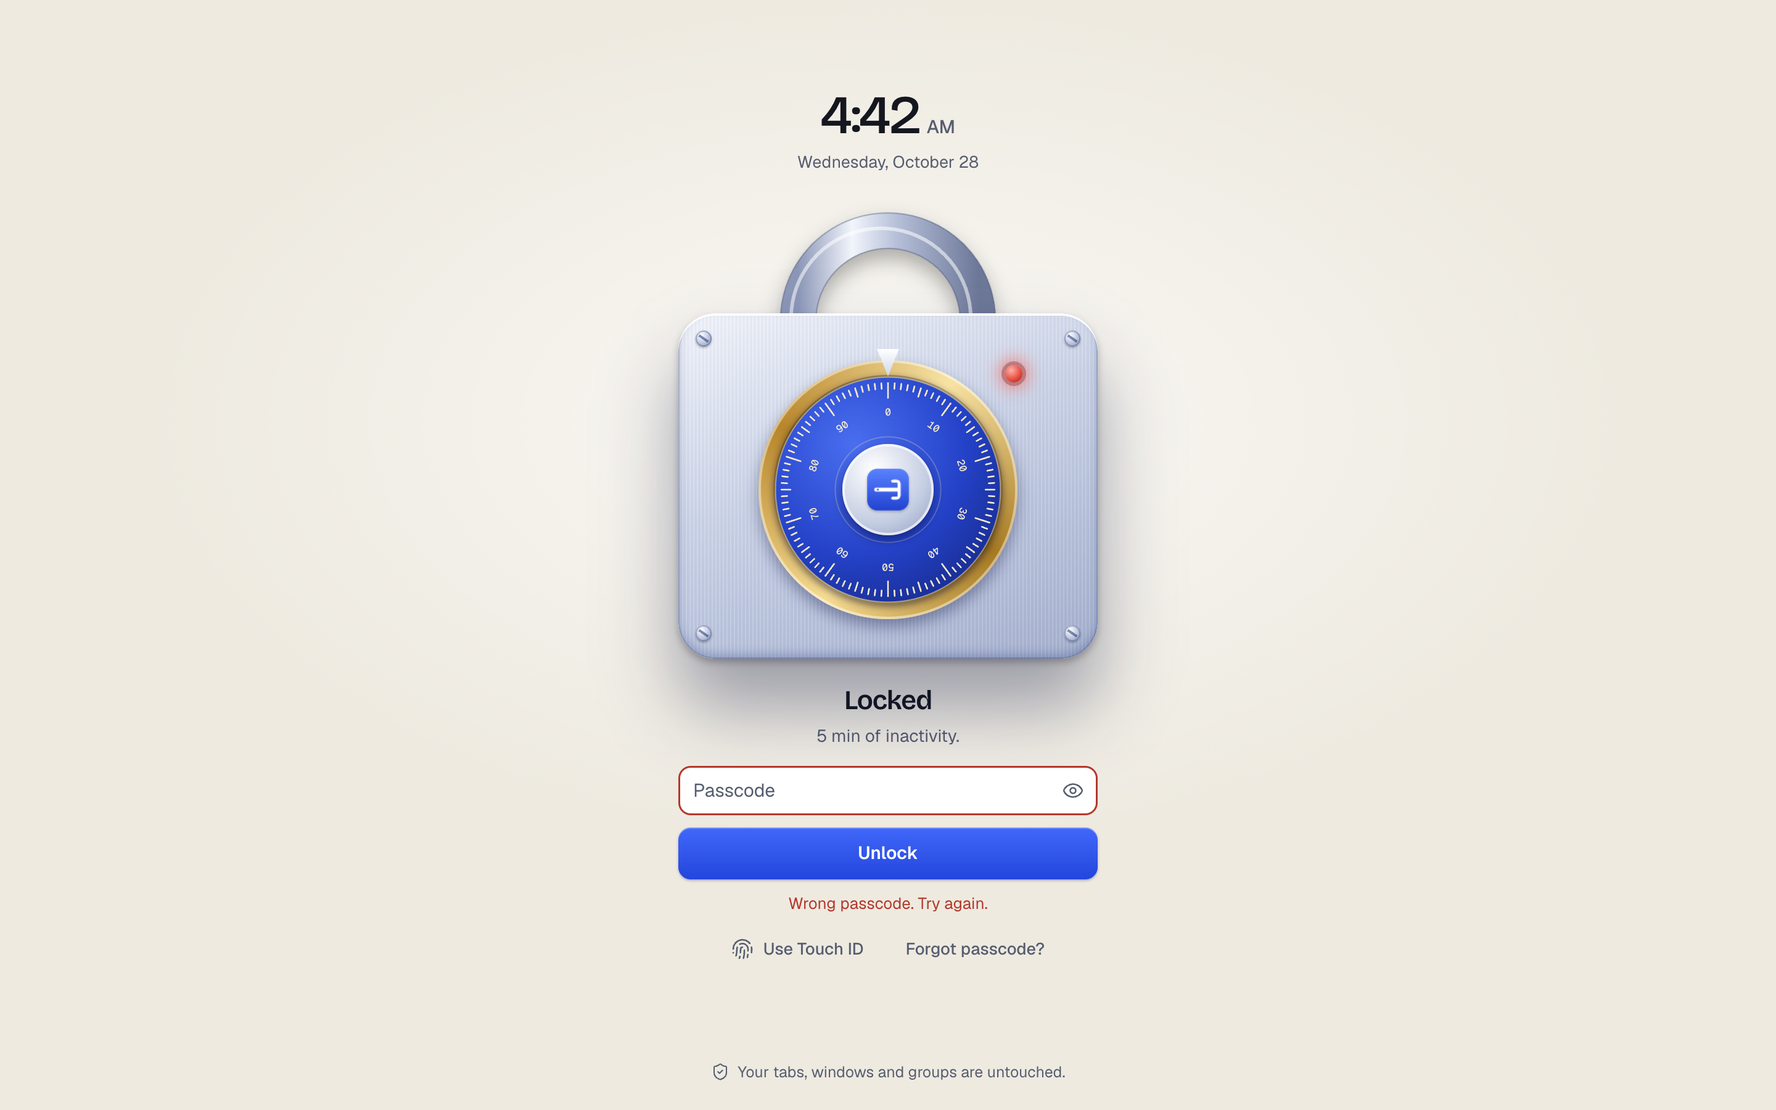
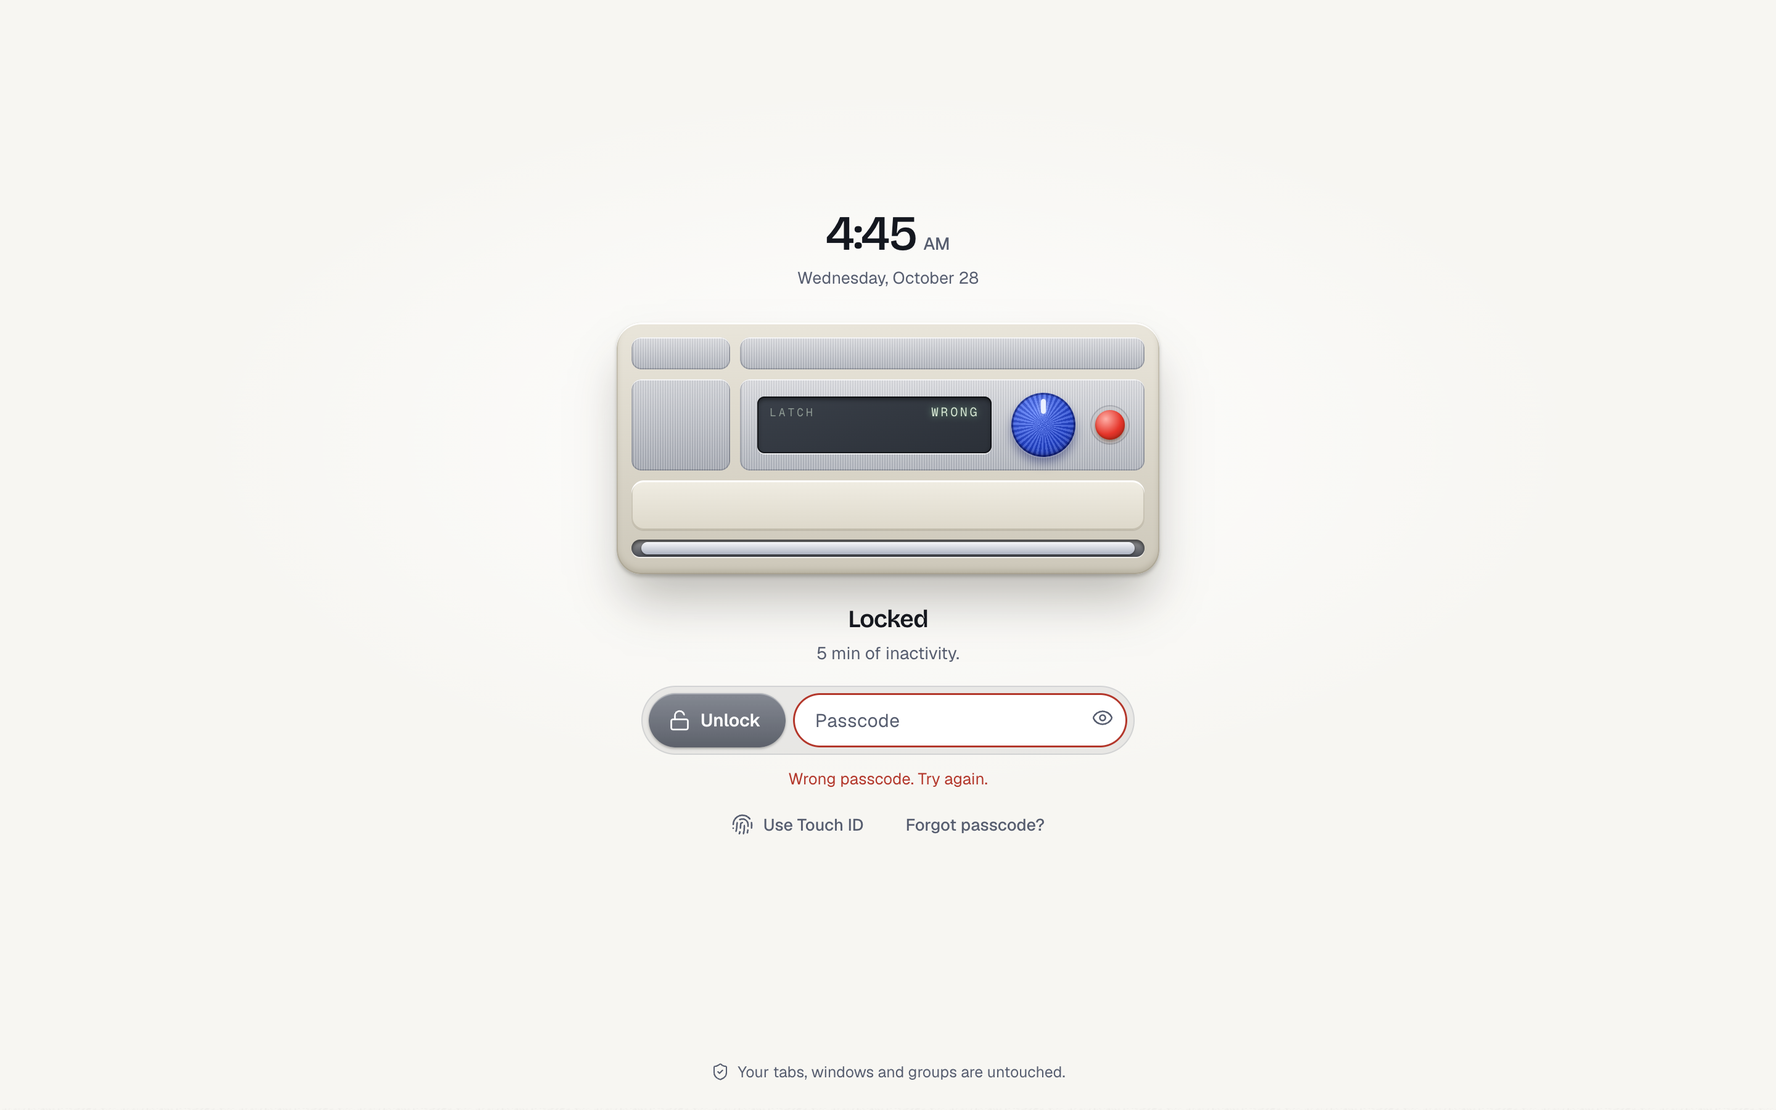
Lock screen as a putty-and-brushed-metal device with LCD, knurled knob, lamp, sliding bolt and a pill control

Changed region(s): [[0.3438, 0.1867, 0.6562, 0.8711], [0.4375, 0.0933, 0.5312, 0.1556]]

diff --git a/ui/lock.css b/ui/lock.css
@@ -1,61 +1,73 @@
-/* The lock screen: one solid, textured ground, one 3D lock in the middle, the passcode field right below it. */
-:root { --ground: #eeeae0; --ground-glow: rgba(255, 255, 255, .7); }
-@media (prefers-color-scheme: dark) { :root { --ground: #0e1436; --ground-glow: rgba(70, 100, 230, .22); } }
+/* The lock screen: a clean ground, one physical device in the middle, a pill control right below it. */
+:root { --ground: #f7f6f2; --putty-a: #e9e5da; --putty-b: #cdc8ba; --metal-a: #d9dade; --metal-b: #aeb2ba; --lcd: #2b3038; --lcd-ink: #d5e6d2; }
+@media (prefers-color-scheme: dark) { :root { --ground: #101319; } }
 html { background: var(--ground); }
-body::before { opacity: 0 !important; }                    /* no grid here: a quiet, solid ground */
-body { background: radial-gradient(60% 55% at 50% 38%, var(--ground-glow), transparent 70%), var(--ground); }
-body::after { opacity: .5; }                               /* the grain, from common.css */
+body::before { opacity: 0 !important; }
+body { background: radial-gradient(55% 45% at 50% 40%, rgba(255, 255, 255, .85), transparent 72%), var(--ground); }
+@media (prefers-color-scheme: dark) { body { background: radial-gradient(55% 45% at 50% 40%, rgba(120, 140, 200, .14), transparent 72%), var(--ground); } }
+body::after { opacity: .42; }
 
-.stage { min-height: 100vh; display: grid; justify-items: center; align-content: center; gap: 22px; padding: 28px 20px 70px; text-align: center; }
-.clock time { display: block; font: 500 44px/1 var(--display); letter-spacing: -.04em; font-variant-numeric: tabular-nums; }
-.clock .ampm { font: 500 15px/1.3 var(--font); letter-spacing: 0; margin-left: 6px; color: var(--text-2); }
+.stage { min-height: 100vh; display: grid; justify-items: center; align-content: center; gap: 26px; padding: 28px 20px 70px; text-align: center; }
+.clock time { display: block; font: 500 40px/1 var(--display); letter-spacing: -.04em; font-variant-numeric: tabular-nums; }
+.clock .ampm { font: 500 14px/1.3 var(--font); letter-spacing: 0; margin-left: 6px; color: var(--text-2); }
 .clock p { margin-top: 6px; font-size: 13.5px; color: var(--text-2); }
 
-/* ---------- the combination lock ---------- */
-.lockbox { --turn: 0deg; --mx: 0; --my: 0; position: relative; width: min(340px, 88vw); padding-top: 90px; transform: rotateX(calc(var(--my) * -5deg)) rotateY(calc(var(--mx) * 7deg)); transition: transform .25s var(--ease); transform-style: preserve-3d; }
-.shackle { position: absolute; top: 0; left: 50%; width: 230px; margin-left: -115px; transform-origin: 14% 100%; transition: transform .6s var(--ease) .25s; z-index: 0; filter: drop-shadow(0 8px 8px rgba(0, 0, 0, .3)); }
-.shackle svg { display: block; width: 100%; height: auto; overflow: visible; }
-.lockbody {
-  position: relative; z-index: 1; padding: 34px 28px 32px; border-radius: 30px; display: grid; gap: 20px; justify-items: center;
-  background: repeating-linear-gradient(90deg, rgba(255, 255, 255, .10) 0 1px, rgba(20, 40, 100, .035) 1px 3px), linear-gradient(158deg, #f4f6fc 0%, #cdd5e8 42%, #a6b1cf 100%);
-  box-shadow: inset 0 2px 0 rgba(255, 255, 255, .95), inset 0 -4px 8px rgba(30, 50, 120, .28), inset 0 0 0 1px rgba(20, 40, 100, .22), 0 3px 6px rgba(0, 0, 0, .25), 0 40px 60px rgba(8, 16, 56, .38);
+/* ---------- the device ---------- */
+.device { --turn: 0deg; --mx: 0; --my: 0; width: min(440px, 92vw); perspective: 900px; }
+.body {
+  position: relative; display: grid; gap: 8px; padding: 12px 12px 14px; border-radius: 20px;
+  background: linear-gradient(180deg, var(--putty-a), var(--putty-b));
+  box-shadow: inset 0 1.5px 0 rgba(255, 255, 255, .95), inset 0 -3px 5px rgba(90, 80, 55, .22), inset 0 0 0 1px rgba(90, 80, 55, .16), 0 2px 3px rgba(40, 36, 24, .25), 0 26px 40px -6px rgba(40, 36, 24, .3);
+  transform: rotateX(calc(var(--my) * -4deg)) rotateY(calc(var(--mx) * 6deg)); transition: transform .25s var(--ease);
 }
-@media (prefers-color-scheme: dark) { .lockbody { background: repeating-linear-gradient(90deg, rgba(255, 255, 255, .06) 0 1px, rgba(0, 0, 0, .05) 1px 3px), linear-gradient(158deg, #6a79a6 0%, #3a4778 45%, #222c56 100%); box-shadow: inset 0 2px 0 rgba(255, 255, 255, .45), inset 0 -4px 8px rgba(0, 0, 20, .4), inset 0 0 0 1px rgba(10, 20, 70, .5), 0 3px 6px rgba(0, 0, 0, .4), 0 40px 60px rgba(0, 0, 0, .5); } }
-.screw { position: absolute; width: 13px; height: 13px; border-radius: 50%; background: radial-gradient(circle at 35% 30%, #fff, #b7c1db 55%, #7d89ab); box-shadow: 0 1px 2px rgba(0, 0, 0, .35), inset 0 0 0 1px rgba(30, 50, 110, .3); }
-.screw::after { content: ""; position: absolute; left: 2px; right: 2px; top: 5.5px; height: 2px; background: rgba(30, 50, 110, .55); transform: rotate(35deg); }
-.screw.tl { top: 14px; left: 14px; } .screw.tr { top: 14px; right: 14px; } .screw.bl { bottom: 14px; left: 14px; } .screw.br { bottom: 14px; right: 14px; }
-.dialwrap { position: relative; width: 210px; height: 210px; margin-top: 4px; }
-.bezel { position: absolute; inset: 0; border-radius: 50%; background: conic-gradient(from 210deg, #f6dc92, #b8862b, #f8e3a4, #a77a22, #f6dc92); box-shadow: 0 6px 12px rgba(10, 20, 70, .4), inset 0 0 0 2px rgba(255, 255, 255, .45); display: grid; place-items: center; }
-.dial { position: absolute; inset: 12px; border-radius: 50%; transform: rotate(var(--turn)); transition: transform .3s cubic-bezier(.3, 1.6, .5, 1); box-shadow: inset 0 0 0 3px rgba(0, 0, 20, .35), 0 2px 6px rgba(0, 0, 40, .5); }
-.dial svg { display: block; width: 100%; height: 100%; }
-.cap { position: absolute; width: 74px; height: 74px; border-radius: 50%; display: grid; place-items: center; background: radial-gradient(circle at 35% 28%, #ffffff, #c4cde2 60%, #8e9abd); box-shadow: 0 4px 8px rgba(0, 0, 40, .45), inset 0 0 0 2px rgba(255, 255, 255, .65); }
-.cap img { border-radius: 8px; filter: drop-shadow(0 1px 1px rgba(0, 0, 0, .25)); }
-.pointer { position: absolute; top: -9px; left: 50%; margin-left: -9px; width: 18px; height: 22px; background: linear-gradient(#fff, #cfd6ea); clip-path: polygon(50% 100%, 0 0, 100% 0); filter: drop-shadow(0 2px 2px rgba(0, 0, 0, .4)); z-index: 3; }
-.lamp { position: absolute; top: 4px; right: -4px; width: 14px; height: 14px; border-radius: 50%; background: radial-gradient(circle at 35% 30%, #9db4ff, #2f55d8 60%, #17298a); box-shadow: 0 0 0 3px rgba(20, 40, 100, .3), 0 0 0 0 rgba(77, 115, 255, 0); opacity: .55; transition: opacity .2s, box-shadow .2s; }
-.lamp.hot { opacity: 1; box-shadow: 0 0 0 3px rgba(20, 40, 100, .3), 0 0 14px 4px rgba(77, 115, 255, .85); }
-.lamp.bad { opacity: 1; background: radial-gradient(circle at 35% 30%, #ffb0a8, #e5483b 60%, #8f1d14); box-shadow: 0 0 0 3px rgba(100, 20, 20, .3), 0 0 14px 4px rgba(255, 90, 77, .8); }
-.slotCore { width: 100%; }
-.slotCore form { margin-top: 0; }
-/* the passcode field is an engraved slot in the plate */
-.slotCore .input { height: 48px; border-radius: 12px; background: linear-gradient(#a9b4d1, #dfe5f3); color: #14224f; box-shadow: inset 0 3px 7px rgba(20, 40, 110, .5), inset 0 -1px 0 rgba(255, 255, 255, .8); font-family: var(--mono); font-size: 18px; letter-spacing: .34em; text-align: center; padding: 0 44px; }
-.slotCore .input::placeholder { font-family: var(--font); letter-spacing: .02em; font-size: 14px; color: #44527f; }
-.slotCore .input:focus { box-shadow: inset 0 3px 7px rgba(20, 40, 110, .5), 0 0 0 3px #fff, 0 0 0 6px var(--accent); }
-.slotCore .pw .reveal { color: #34447a; }
-.slotCore .error { color: #a5271d; } .slotCore .note { color: #7d5300; } .slotCore .wait { color: #34447a; }
-.lockbox.wrong { animation: knock .42s var(--ease); }
-.lockbox.open .dial { transform: rotate(calc(var(--turn) + 540deg)); transition: transform .9s var(--ease); }
-.lockbox.open .shackle { transform: translateY(-30px) rotate(-14deg); }
-.lockbox.open .lockbody { transform: translateY(2px); }
+.row1, .row2 { display: grid; gap: 8px; }
+.row1 { grid-template-columns: 80px 1fr; } .row2 { grid-template-columns: 80px 1fr; }
+.plate { border-radius: 8px; box-shadow: inset 0 1px 0 rgba(255, 255, 255, .85), inset 0 0 0 1px rgba(60, 64, 76, .28); }
+.brushed { background: repeating-linear-gradient(90deg, rgba(255, 255, 255, .22) 0 1px, rgba(40, 44, 56, .05) 1px 2px), linear-gradient(180deg, var(--metal-a), var(--metal-b)); }
+.plate.small { height: 26px; } .plate.long { height: 26px; }
+.plate.grille { height: 74px; background: repeating-linear-gradient(90deg, rgba(255, 255, 255, .22) 0 1px, rgba(40, 44, 56, .05) 1px 2px), linear-gradient(180deg, #cfd1d6, #a3a7b0); }
+.controls { position: relative; height: 74px; display: flex; align-items: center; gap: 16px; padding: 0 16px 0 14px; }
+
+.lcd { flex: 1; height: 46px; border-radius: 6px; padding: 5px 10px; display: grid; grid-template-columns: auto 1fr; grid-template-rows: auto 1fr; align-items: center;
+  background: linear-gradient(160deg, #3a4049, var(--lcd)); box-shadow: inset 0 2px 4px rgba(0, 0, 0, .55), inset 0 0 0 1px rgba(0, 0, 0, .5), 0 1px 0 rgba(255, 255, 255, .7); font-family: var(--mono); color: var(--lcd-ink); }
+.lcdBrand { font-size: 9px; letter-spacing: .22em; opacity: .55; }
+.lcdText { grid-column: 2; justify-self: end; font-size: 10px; letter-spacing: .18em; text-shadow: 0 0 6px rgba(150, 230, 170, .55); }
+.lcdDots { grid-column: 1 / -1; font-size: 24px; letter-spacing: .18em; line-height: 1; min-height: 17px; text-shadow: 0 0 7px rgba(150, 230, 170, .6); white-space: nowrap; overflow: hidden; }
+
+.knob { position: relative; width: 52px; height: 52px; border-radius: 50%; flex: none; transform: rotate(var(--turn)); transition: transform .32s cubic-bezier(.3, 1.5, .5, 1);
+  background: repeating-conic-gradient(from 0deg, rgba(255, 255, 255, .16) 0 5deg, rgba(0, 0, 50, .16) 5deg 10deg), radial-gradient(circle at 38% 30%, #5f82ff, #2548d2 58%, #1a2f93);
+  box-shadow: 0 5px 8px rgba(20, 30, 100, .45), 0 1px 0 rgba(255, 255, 255, .5), inset 0 -2px 3px rgba(0, 0, 50, .4), inset 0 0 0 1.5px rgba(10, 20, 90, .5); }
+.knob i { position: absolute; top: 5px; left: 50%; width: 4px; height: 12px; margin-left: -2px; border-radius: 2px; background: #eaf0ff; box-shadow: 0 0 4px rgba(255, 255, 255, .6); }
+.lamp { width: 24px; height: 24px; border-radius: 50%; flex: none; background: radial-gradient(circle at 36% 30%, #ffb184, #f0662a 55%, #c4400f); box-shadow: 0 2px 3px rgba(80, 30, 0, .45), inset 0 -1px 2px rgba(120, 30, 0, .5), 0 0 0 3px rgba(255, 255, 255, .35), 0 0 0 4px rgba(60, 64, 76, .25); transition: filter .2s, transform .15s; }
+.device.typing .lamp { filter: brightness(1.2) saturate(1.1); }
+.device.wrong .lamp { background: radial-gradient(circle at 36% 30%, #ffb0a8, #e5352a 55%, #8f1a12); animation: blinkLamp .5s 3; }
+
+.deck { height: 40px; border-radius: 10px; background: linear-gradient(180deg, #f0ede3, #ddd8ca); box-shadow: inset 0 1.5px 0 #fff, inset 0 0 0 1px rgba(90, 80, 55, .2), 0 1px 0 rgba(90, 80, 55, .15); }
+.slot { position: relative; height: 14px; border-radius: 7px; background: linear-gradient(180deg, #9a9a9a, #4a4d55); box-shadow: inset 0 2px 3px rgba(0, 0, 0, .6), 0 1px 0 rgba(255, 255, 255, .7); overflow: hidden; }
+.bolt { position: absolute; top: 2px; bottom: 2px; left: 8px; right: 8px; border-radius: 5px; background: linear-gradient(180deg, #f6f7fa, #aeb4c2); box-shadow: 0 1px 2px rgba(0, 0, 0, .4); transition: transform .8s var(--ease); }
+.device.open .bolt { transform: translateX(-88%); }
+.device.open .lamp { background: radial-gradient(circle at 36% 30%, #a9c2ff, #4a74f2 55%, #2543b8); }
+.device.open .knob { transform: rotate(calc(var(--turn) + 360deg)); transition: transform .9s var(--ease); }
+.device.wrong .body { animation: knock .42s var(--ease); }
 @keyframes knock { 20% { translate: -8px 0; } 45% { translate: 7px 0; } 70% { translate: -4px 0; } }
+@keyframes blinkLamp { 50% { filter: brightness(.55); } }
 
-
-/* ---------- the words and the field, centered under the lock ---------- */
-.panel { width: min(340px, 92vw); display: grid; }
+/* ---------- the pill control and the words below ---------- */
+.panel { width: min(400px, 92vw); display: grid; }
 #viewUnlock, #viewRecover, #viewRecovered { display: grid; gap: 10px; text-align: center; }
-.panel h1 { font-size: 22px; letter-spacing: -.03em; }
+.panel h1 { font-size: 20px; letter-spacing: -.03em; }
 h1 + p { margin-top: -4px; }
 #reason { font-size: 14px; }
-form { display: grid; gap: 10px; margin-top: 4px; text-align: left; }
+.pill { display: flex; align-items: center; gap: 6px; padding: 6px; border-radius: 999px; margin-top: 6px; background: color-mix(in srgb, var(--text) 7%, transparent); box-shadow: inset 0 0 0 1px var(--line); }
+.pillBtn { display: inline-flex; align-items: center; gap: 8px; height: 44px; padding: 0 20px 0 16px; border: 0; border-radius: 999px; flex: none; font: 600 14.5px/1 var(--font); color: #fff; cursor: pointer;
+  background: linear-gradient(180deg, #7b7f88, #565a63); box-shadow: inset 0 1px 0 rgba(255, 255, 255, .3), 0 1px 2px rgba(0, 0, 0, .3); transition: filter .15s, transform .15s var(--ease); }
+.pillBtn:hover { filter: brightness(1.08); } .pillBtn:active { transform: scale(.98); } .pillBtn:disabled { opacity: .5; cursor: default; }
+.pillBtn:focus-visible { outline: 2px solid var(--bg); box-shadow: 0 0 0 4px var(--accent); }
+.pillField { flex: 1; min-width: 0; }
+.pillField .input { height: 44px; border-radius: 999px; border: 0; padding: 0 44px 0 18px; font-size: 15px; background: var(--surface); box-shadow: 0 1px 2px rgba(0, 0, 0, .1); letter-spacing: .02em; }
+.pillField .input:focus { box-shadow: 0 0 0 3px var(--accent-soft), inset 0 0 0 1.5px var(--accent); }
+.pillField .input[aria-invalid="true"] { box-shadow: inset 0 0 0 1.5px var(--danger); }
+form:not(.pill) { display: grid; gap: 10px; margin-top: 4px; text-align: left; }
 label { display: grid; gap: 6px; font-size: 13px; font-weight: 500; }
 .mono { font-family: var(--mono); letter-spacing: .02em; }
 .note { font-size: 12.5px; color: var(--warn); }
@@ -70,5 +82,7 @@ label { display: grid; gap: 6px; font-size: 13px; font-weight: 500; }
 .foot svg.i { width: 15px; height: 15px; }
 .panel.shake { animation: shake .32s var(--ease); }
 @keyframes shake { 20% { transform: translateX(-6px); } 45% { transform: translateX(5px); } 70% { transform: translateX(-3px); } }
-@media (prefers-reduced-motion: no-preference) { .stage.done .lockbox { animation: lift .5s var(--ease) both; } @keyframes lift { 50% { transform: translateY(-10px); } } }
-@media (max-height: 760px) { .stage { gap: 14px; } .clock time { font-size: 34px; } .lockbox { width: 300px; padding-top: 70px; } .dialwrap { width: 190px; height: 190px; } .cap { width: 58px; height: 58px; } .shackle { width: 180px; margin-left: -90px; } }
+@media (prefers-reduced-motion: no-preference) { .stage.done .device { animation: lift .5s var(--ease) both; } @keyframes lift { 50% { transform: translateY(-8px); } } }
+@media (prefers-reduced-motion: reduce) { .device.wrong .lamp { animation: none; } }
+@media (max-height: 760px) { .stage { gap: 14px; } .clock time { font-size: 30px; } .clock p { display: none; } }
+@media (max-width: 440px) { .controls { gap: 10px; padding: 0 10px; } .knob { width: 44px; height: 44px; } }

diff --git a/ui/lockdial.js b/ui/lockdial.js
@@ -1,48 +1,25 @@
-// The combination lock: a brass-rimmed dial that turns a notch for every character you type, a steel shackle that
-// lifts when the lock opens, and a lamp. Pure SVG and CSS, so it stays light.
-
-const num = (n) => n.toFixed(2);
-
-function dialSvg() {
-  let ticks = '', nums = '';
-  for (let i = 0; i < 100; i++) {
-    const a = (i * 3.6 - 90) * Math.PI / 180, major = i % 10 === 0, mid = i % 5 === 0;
-    const r1 = 93, r2 = major ? 80 : mid ? 85 : 88;
-    ticks += `M${num(Math.cos(a) * r1)} ${num(Math.sin(a) * r1)}L${num(Math.cos(a) * r2)} ${num(Math.sin(a) * r2)}`;
-    if (major) nums += `<text x="${num(Math.cos(a) * 68)}" y="${num(Math.sin(a) * 68)}" transform="rotate(${i * 3.6} ${num(Math.cos(a) * 68)} ${num(Math.sin(a) * 68)})">${i}</text>`;
-  }
-  return `<svg viewBox="-100 -100 200 200" aria-hidden="true">
-  <defs><radialGradient id="face" cx=".35" cy=".3" r=".9"><stop offset="0" stop-color="#4a6ef0"/><stop offset=".55" stop-color="#2442c8"/><stop offset="1" stop-color="#14247d"/></radialGradient></defs>
-  <circle r="98" fill="url(#face)"/>
-  <circle r="98" fill="none" stroke="#f6e3a8" stroke-opacity=".5" stroke-width="1"/>
-  <path d="${ticks}" stroke="#f6ecd0" stroke-width="1.4" stroke-linecap="round" fill="none"/>
-  <g fill="#f6ecd0" font-family="Geist Mono, ui-monospace, monospace" font-size="9" font-weight="500" text-anchor="middle" dominant-baseline="central">${nums}</g>
-  <circle r="46" fill="none" stroke="#f6e3a8" stroke-opacity=".28" stroke-width="1"/>
-</svg>`;
-}
-
-const SHACKLE = `<svg viewBox="-10 -30 240 180" aria-hidden="true">
-  <defs><linearGradient id="steel" x1="0" y1="0" x2="1" y2="0"><stop offset="0" stop-color="#8c97b8"/><stop offset=".3" stop-color="#f2f5fb"/><stop offset=".55" stop-color="#b5bfd8"/><stop offset="1" stop-color="#6d7899"/></linearGradient></defs>
-  <path d="M34 150V70a76 76 0 0 1 152 0v80" fill="none" stroke="url(#steel)" stroke-width="30"/>
-  <path d="M34 150V70a76 76 0 0 1 152 0v80" fill="none" stroke="#fff" stroke-opacity=".55" stroke-width="3" transform="translate(-6 -2)"/>
-  <path d="M19 150V70a91 91 0 0 1 182 0v80M49 150V70a61 61 0 0 1 122 0v80" fill="none" stroke="#3a4670" stroke-opacity=".35" stroke-width="1.2"/>
-</svg>`;
+// The lock device: a putty-coloured body with a brushed-metal panel, a small LCD, a blue knurled knob and an orange lamp,
+// with a bolt that slides in its slot. Typing shows dots on the LCD and turns the knob a notch per character; a wrong
+// guess snaps the knob back and shows WRONG; a right one slides the bolt open. All CSS: no images, no canvas.
 
 export function mountDial(box) {
-  box.querySelector('#dial').innerHTML = dialSvg();
-  box.querySelector('.shackle').innerHTML = SHACKLE;
-  const lamp = box.querySelector('#lamp');
+  const lcd = box.querySelector('#lcdText'), dots = box.querySelector('#lcdDots');
   let timer = 0;
-  const flash = (cls, ms) => { lamp.classList.remove('hot', 'bad'); lamp.classList.add(cls); clearTimeout(timer); timer = setTimeout(() => lamp.classList.remove(cls), ms); };
+  const status = (text, ms) => { lcd.textContent = text; clearTimeout(timer); if (ms) timer = setTimeout(() => { lcd.textContent = box.classList.contains('open') ? 'OPEN' : 'LOCKED'; }, ms); };
 
   return {
-    // one notch (7 of the dial's 100 marks) for every character typed
+    // one notch of the knob (25 degrees) for every character typed; the LCD shows one dot each, up to 12
     turn(length) {
-      box.style.setProperty('--turn', `${(length * 25.2).toFixed(1)}deg`);
-      if (length) flash('hot', 260);
+      box.style.setProperty('--turn', `${(length * 25).toFixed(1)}deg`);
+      dots.textContent = '•'.repeat(Math.min(length, 12));
+      box.classList.toggle('typing', length > 0);
     },
-    wrong() { box.classList.remove('wrong'); void box.offsetWidth; box.classList.add('wrong'); box.style.setProperty('--turn', '0deg'); flash('bad', 1400); },
-    open() { box.classList.add('open'); lamp.classList.add('hot'); },
+    wrong() {
+      box.classList.remove('wrong'); void box.offsetWidth; box.classList.add('wrong');
+      box.style.setProperty('--turn', '0deg'); dots.textContent = ''; box.classList.remove('typing');
+      status('WRONG', 1600);
+    },
+    open() { box.classList.add('open'); dots.textContent = ''; status('OPEN'); },
     calm() { box.classList.remove('wrong'); },
   };
 }

diff --git a/ui/lock.html b/ui/lock.html
@@ -13,18 +13,22 @@
   <main class="stage">
     <div class="clock" aria-hidden="true"><time id="clock"></time><p id="date"></p></div>
 
-    <div class="lockbox" id="dialVisual" aria-hidden="true">
-      <div class="shackle"></div>
-      <div class="lockbody">
-        <i class="screw tl"></i><i class="screw tr"></i><i class="screw bl"></i><i class="screw br"></i>
-        <div class="dialwrap">
-          <div class="bezel">
-            <div class="dial" id="dial"></div>
-            <div class="cap"><img src="../icons/icon-48.png" alt="" width="34" height="34"></div>
-            <i class="pointer"></i>
-          </div>
-          <i class="lamp" id="lamp"></i>
+    <div class="device" id="dialVisual" aria-hidden="true">
+      <div class="body">
+        <div class="row1">
+          <div class="plate brushed small"></div>
+          <div class="plate brushed long"></div>
         </div>
+        <div class="row2">
+          <div class="plate brushed grille"></div>
+          <div class="plate brushed controls">
+            <div class="lcd"><span class="lcdBrand">LATCH</span><span class="lcdText" id="lcdText">LOCKED</span><span class="lcdDots" id="lcdDots"></span></div>
+            <div class="knob"><i></i></div>
+            <div class="lamp" id="lamp"></div>
+          </div>
+        </div>
+        <div class="deck"></div>
+        <div class="slot"><i class="bolt"></i></div>
       </div>
     </div>
 
@@ -33,12 +37,12 @@
       <div id="viewUnlock">
         <h1 id="title">Locked</h1>
         <p class="muted" id="reason">Enter your passcode to continue.</p>
-        <form id="form" autocomplete="off">
-          <div class="pw">
+        <form id="form" class="pill" autocomplete="off">
+          <button class="pillBtn" id="unlock" type="submit"><svg class="i"><use href="icons.svg#unlock"/></svg> Unlock</button>
+          <div class="pillField pw">
             <input class="input" id="passcode" type="password" placeholder="Passcode" aria-label="Passcode" aria-describedby="error caps" autofocus>
             <button type="button" class="reveal" id="reveal" aria-label="Show passcode"><svg class="i"><use href="icons.svg#eye"/></svg></button>
           </div>
-          <button class="btn primary wide" id="unlock" type="submit">Unlock</button>
         </form>
         <p class="note" id="caps" hidden>Caps Lock is on</p>
         <p class="error" id="error" role="alert"></p>
